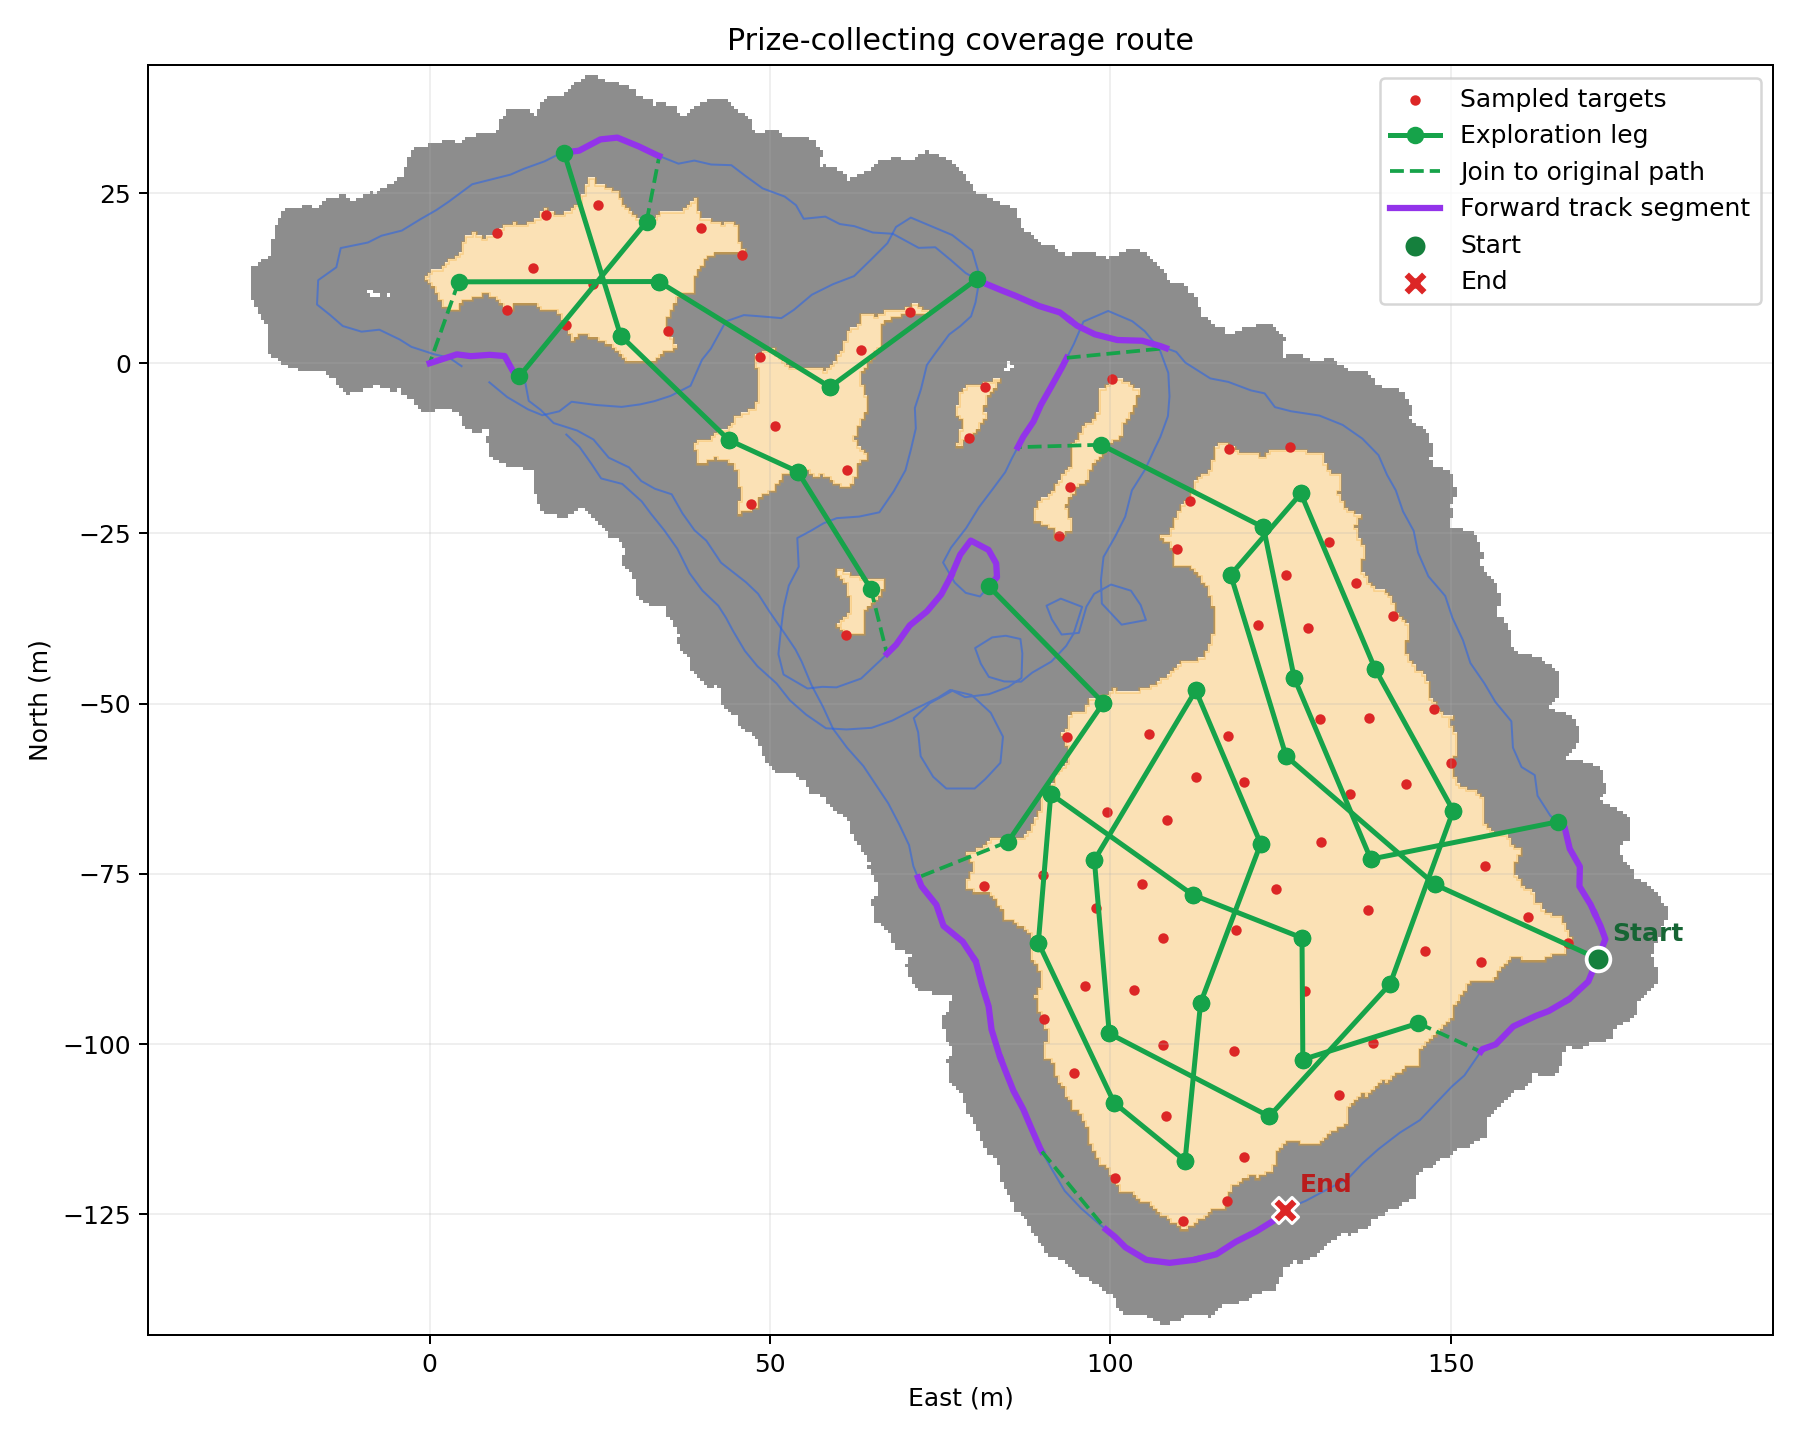
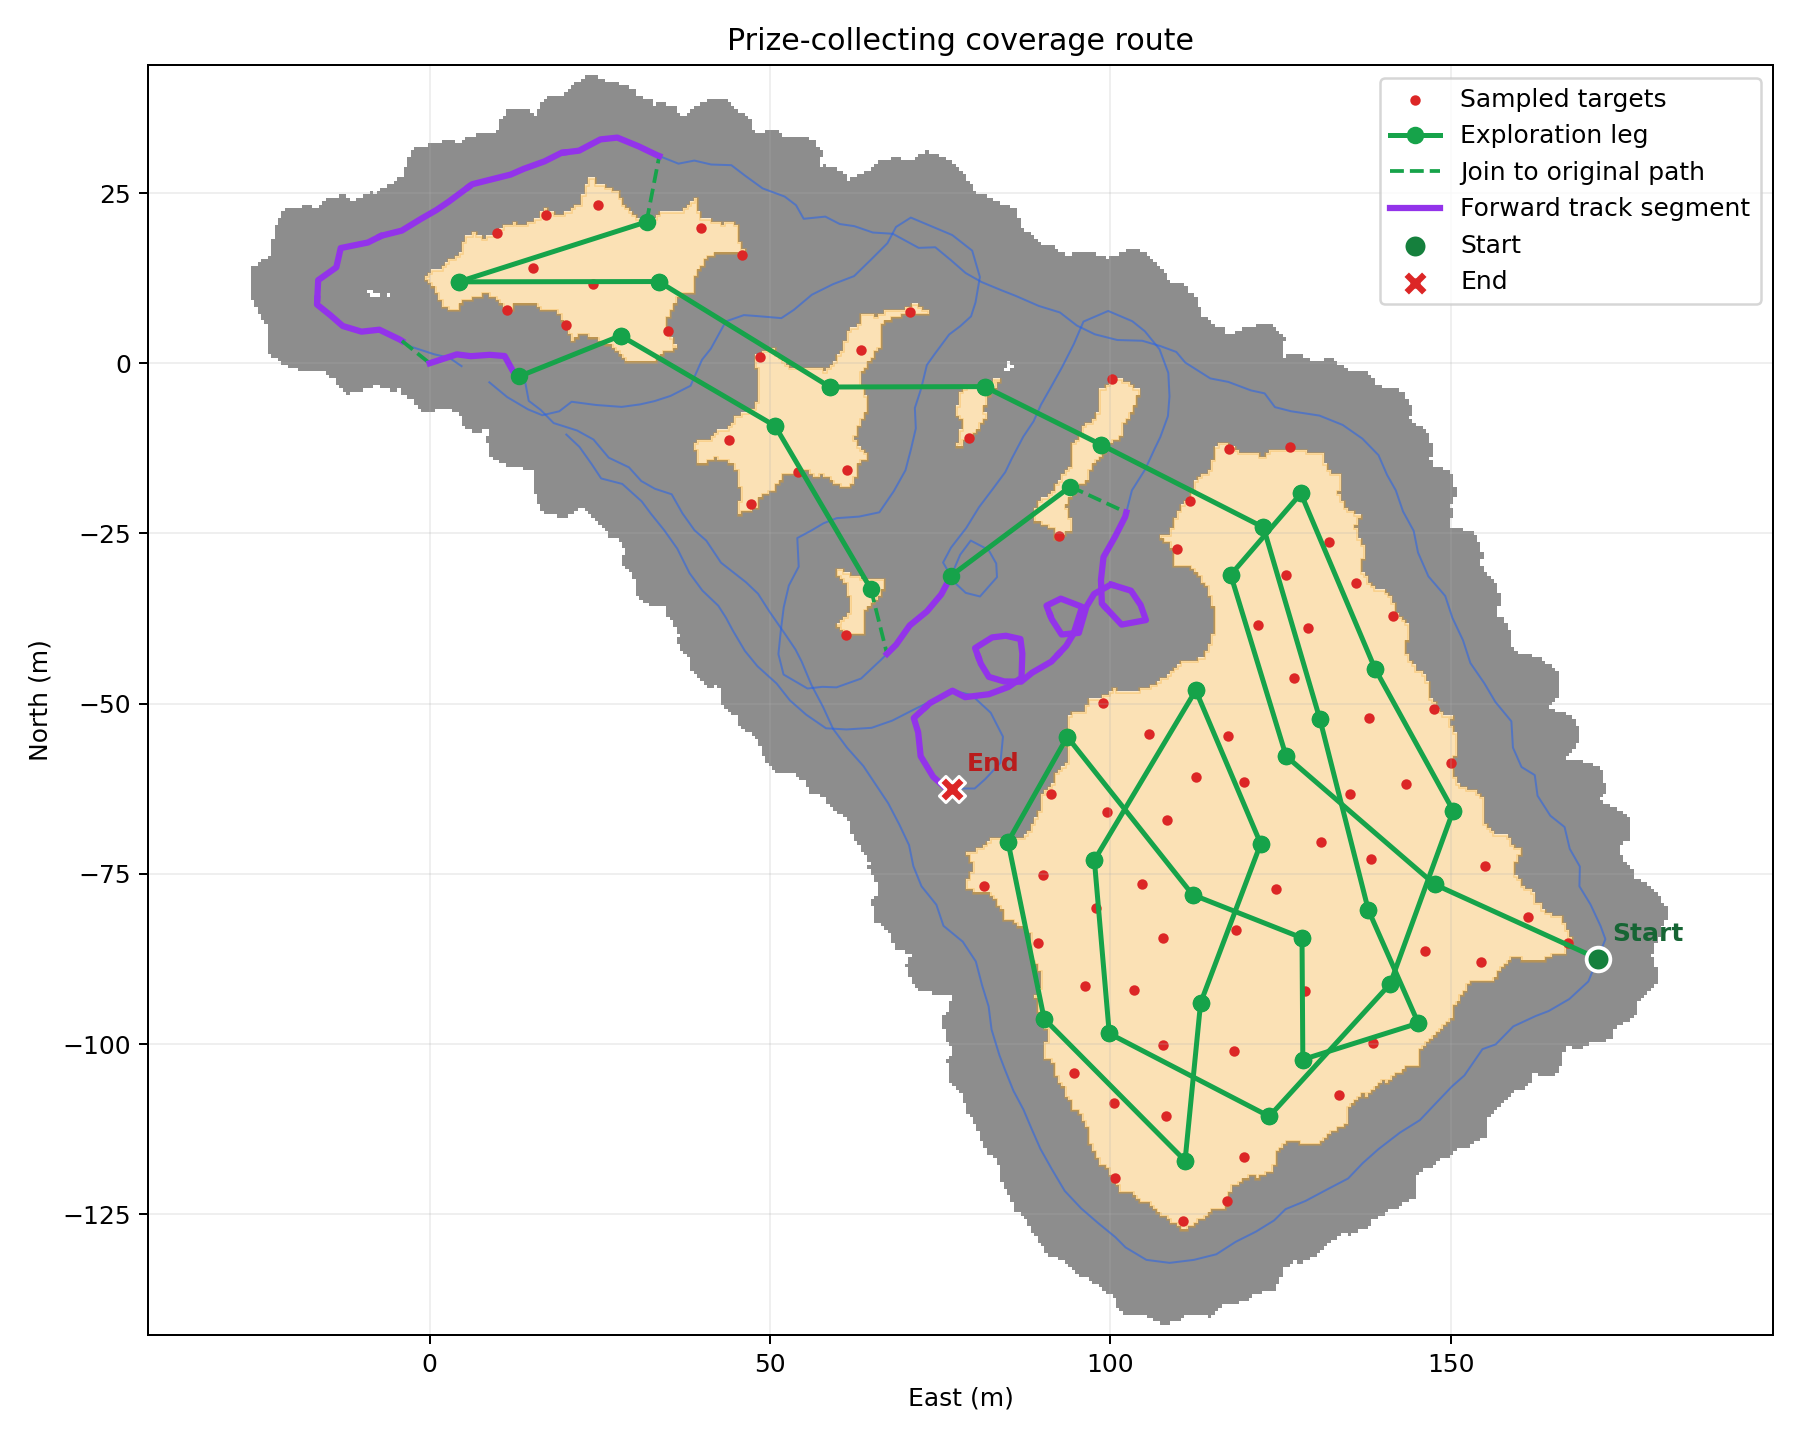
More from pctsp

diff --git a/scripts/plan_coverage_route.py b/scripts/plan_coverage_route.py
@@ -10,7 +10,7 @@ import matplotlib.pyplot as plt
 import numpy as np
 from scipy import ndimage
 from geographiclib.geodesic import Geodesic
-from shapely.geometry import Point, box
+from shapely.geometry import LineString, Point, box
 from shapely.ops import unary_union
 
 
@@ -187,10 +187,34 @@ def turn_penalty(route, points, reward, turn_cost):
     return reward * turn_cost * angle / math.pi
 
 
+def crossing_count(route, points):
+    """Count interior intersections with earlier, non-adjacent route segments."""
+    if len(route) < 3:
+        return 0
+    previous_segments = [LineString((route[i], route[i + 1]))
+                         for i in range(len(route) - 2)]
+    crossings = set()
+    for start, end in zip(points, points[1:]):
+        candidate = LineString((start, end))
+        for previous in previous_segments:
+            intersection = candidate.intersection(previous)
+            if intersection.is_empty:
+                continue
+            intersections = ([intersection] if intersection.geom_type == "Point" else
+                             list(intersection.geoms) if hasattr(intersection, "geoms") else [])
+            for point in intersections:
+                if point.geom_type != "Point":
+                    continue
+                if point.distance(Point(start)) <= 0.05 or point.distance(Point(end)) <= 0.05:
+                    continue
+                crossings.add((round(point.x, 2), round(point.y, 2)))
+    return len(crossings)
+
+
 def plan_route(targets, initial, xs, ys, original, step, radius, coverage_reward,
                track_reward, chunks, track_join_distance, distance_cost,
                max_distance, max_stops, max_track_segments, max_leg_length,
-               turn_cost=0.2):
+               turn_cost=0.75, crossing_cost=0.2):
     route = [initial]
     actions = []
     remaining = list(targets)
@@ -210,7 +234,8 @@ def plan_route(targets, initial, xs, ys, original, step, radius, coverage_reward
             gained = path_covered_cells(points, xs, ys, step, radius) - original - covered
             reward = coverage_reward * len(gained)
             score = (reward - distance_cost * travel
-                     - turn_penalty(route, points, reward, turn_cost))
+                     - turn_penalty(route, points, reward, turn_cost)
+                     - crossing_cost * reward * crossing_count(route, points))
             if score > 0:
                 choices.append((score, "target", points, gained, travel, target, None))
 
@@ -229,7 +254,8 @@ def plan_route(targets, initial, xs, ys, original, step, radius, coverage_reward
                 bonus = track_reward
                 reward = coverage_reward * len(gained) + bonus
                 score = (reward - distance_cost * travel
-                         - turn_penalty(route, points, reward, turn_cost))
+                         - turn_penalty(route, points, reward, turn_cost)
+                         - crossing_cost * reward * crossing_count(route, points))
                 if score > 0:
                     choices.append((score, "track", points, gained, travel,
                                     (track_id, start, end), chunk_id))
@@ -319,10 +345,11 @@ def main():
         "seed": (int, 42), "sampling-attempts": (int, 5000),
         "min-region-area": (float, 5.0), "coverage-reward": (float, None),
         "track-reward": (float, 50.0), "track-max-length": (float, None),
-        "track-join-distance": (float, 15.0), "max-track-segments": (int, None),
+        "track-join-distance": (float, 10.0), "max-track-segments": (int, None),
         "distance-cost": (float, None), "max-distance": (float, None),
         "max-stops": (int, 50), "max-leg-length": (float, None),
-        "turn-cost": (float, 0.8),
+        "turn-cost": (float, 0.75),
+        "crossing-cost": (float, 0.2),
     }
     for option, (value_type, default) in advanced.items():
         parser.add_argument(f"--{option}", type=value_type, default=default,
@@ -356,6 +383,8 @@ def main():
         parser.error("Track reward and track segment limit cannot be negative")
     if args.turn_cost < 0:
         parser.error("Turn cost cannot be negative")
+    if args.crossing_cost < 0:
+        parser.error("Crossing cost cannot be negative")
     output = args.output or args.grid.with_name("planned_route.csv")
     plot_path = args.plot or output.with_suffix(".png")
     try:
@@ -380,7 +409,7 @@ def main():
             targets, start, east, north, covered_cells, args.grid_step, args.sensor_radius,
             args.coverage_reward, args.track_reward, chunks, args.track_join_distance,
             args.distance_cost, args.max_distance, args.max_stops, args.max_track_segments,
-            args.max_leg_length, args.turn_cost,
+            args.max_leg_length, args.turn_cost, args.crossing_cost,
         )
         output.parent.mkdir(parents=True, exist_ok=True)
         with output.open("w", newline="", encoding="utf-8") as file:

diff --git a/README.md b/README.md
@@ -62,6 +62,6 @@ The planner writes `planned_route.csv` and `planned_route.png` beside the grid. 
 
 `--track-use occasional` allows up to 5 track sections of 20 m each; `regular` allows up to 15 sections of 15 m; `frequent` allows up to 30 sections of 10 m. The planner still includes the connector when scoring a track section. Enclosed regions are uncovered grid components inside the convex hull of covered cells. The route starts at the recorded point nearest any target. This prototype does not write GPX.
 
-Detailed options such as grid spacing, sensor radius, random seed, scoring weights, and stop limits remain available as advanced CLI overrides, but are hidden from the short `--help` list. `--turn-cost` defaults to `0.2`, so a 180-degree turn subtracts 20% of that candidate's coverage and track reward; increasing it discourages turns more strongly, while `--turn-cost 0` disables the preference. For example, `--sensor-radius 8` overrides the default sensor model. Grid spacing must match the input CSV.
+Detailed options such as grid spacing, sensor radius, random seed, scoring weights, and stop limits remain available as advanced CLI overrides, but are hidden from the short `--help` list. `--turn-cost` defaults to `0.75`, so a 180-degree turn subtracts 75% of that candidate's coverage and track reward. `--crossing-cost` defaults to `0.2`, subtracting 20% of a candidate's reward for each interior crossing of the earlier route. Increase either value to discourage the behavior more strongly; set it to `0` to disable that penalty. For example, `--sensor-radius 8` overrides the default sensor model. Grid spacing must match the input CSV.
 
 The conversion scripts accept an optional `--output-dir`; if omitted, they write beside their input files.
